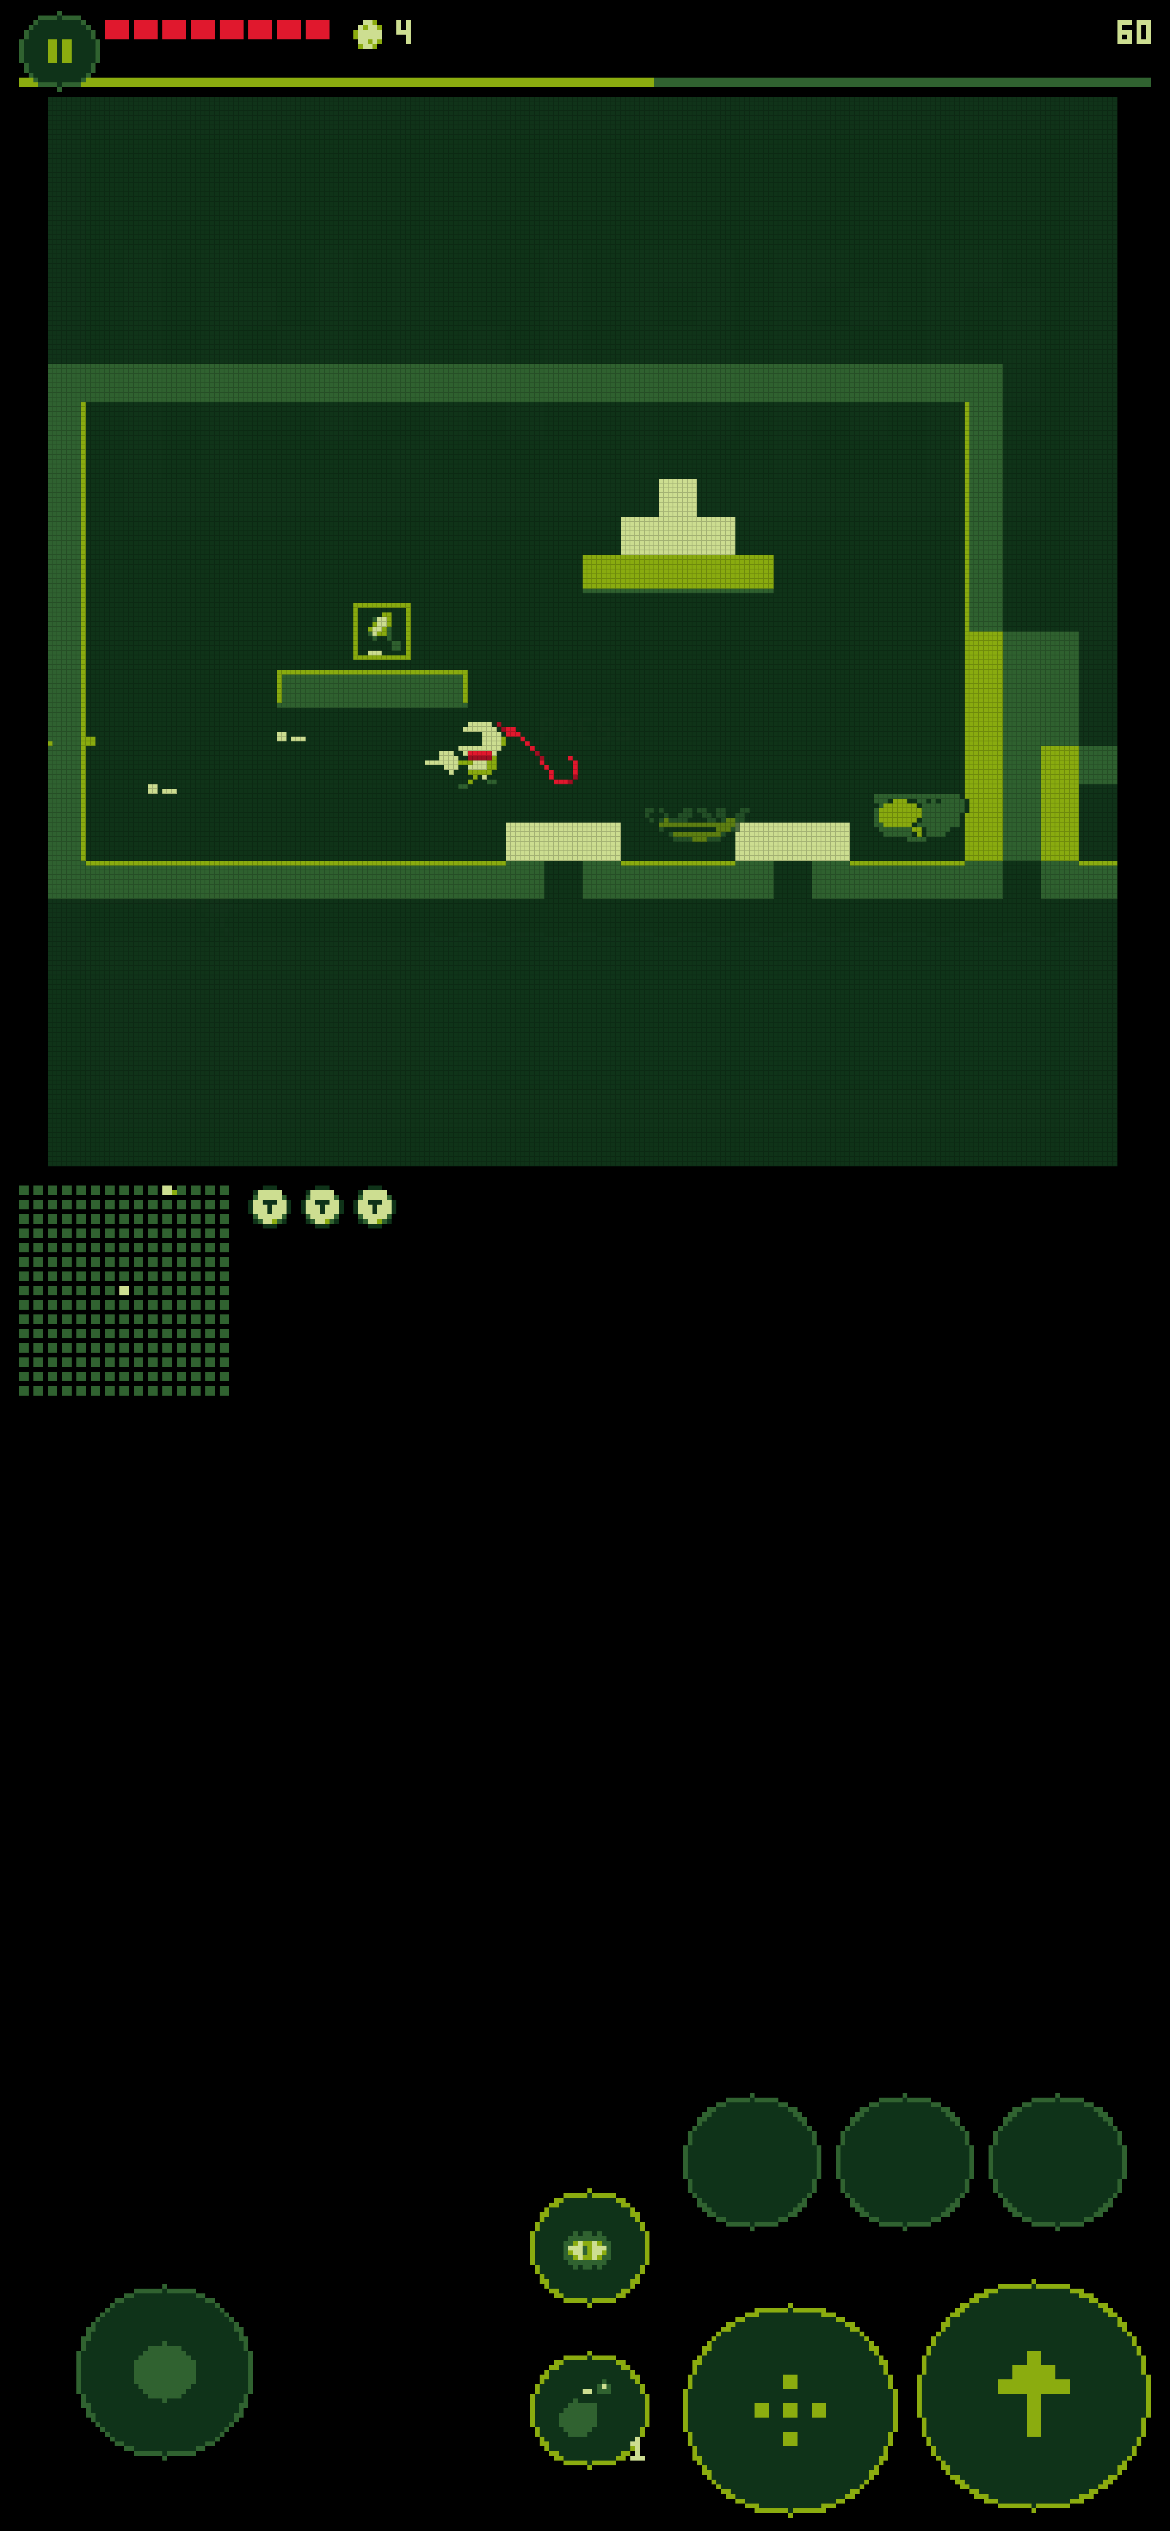
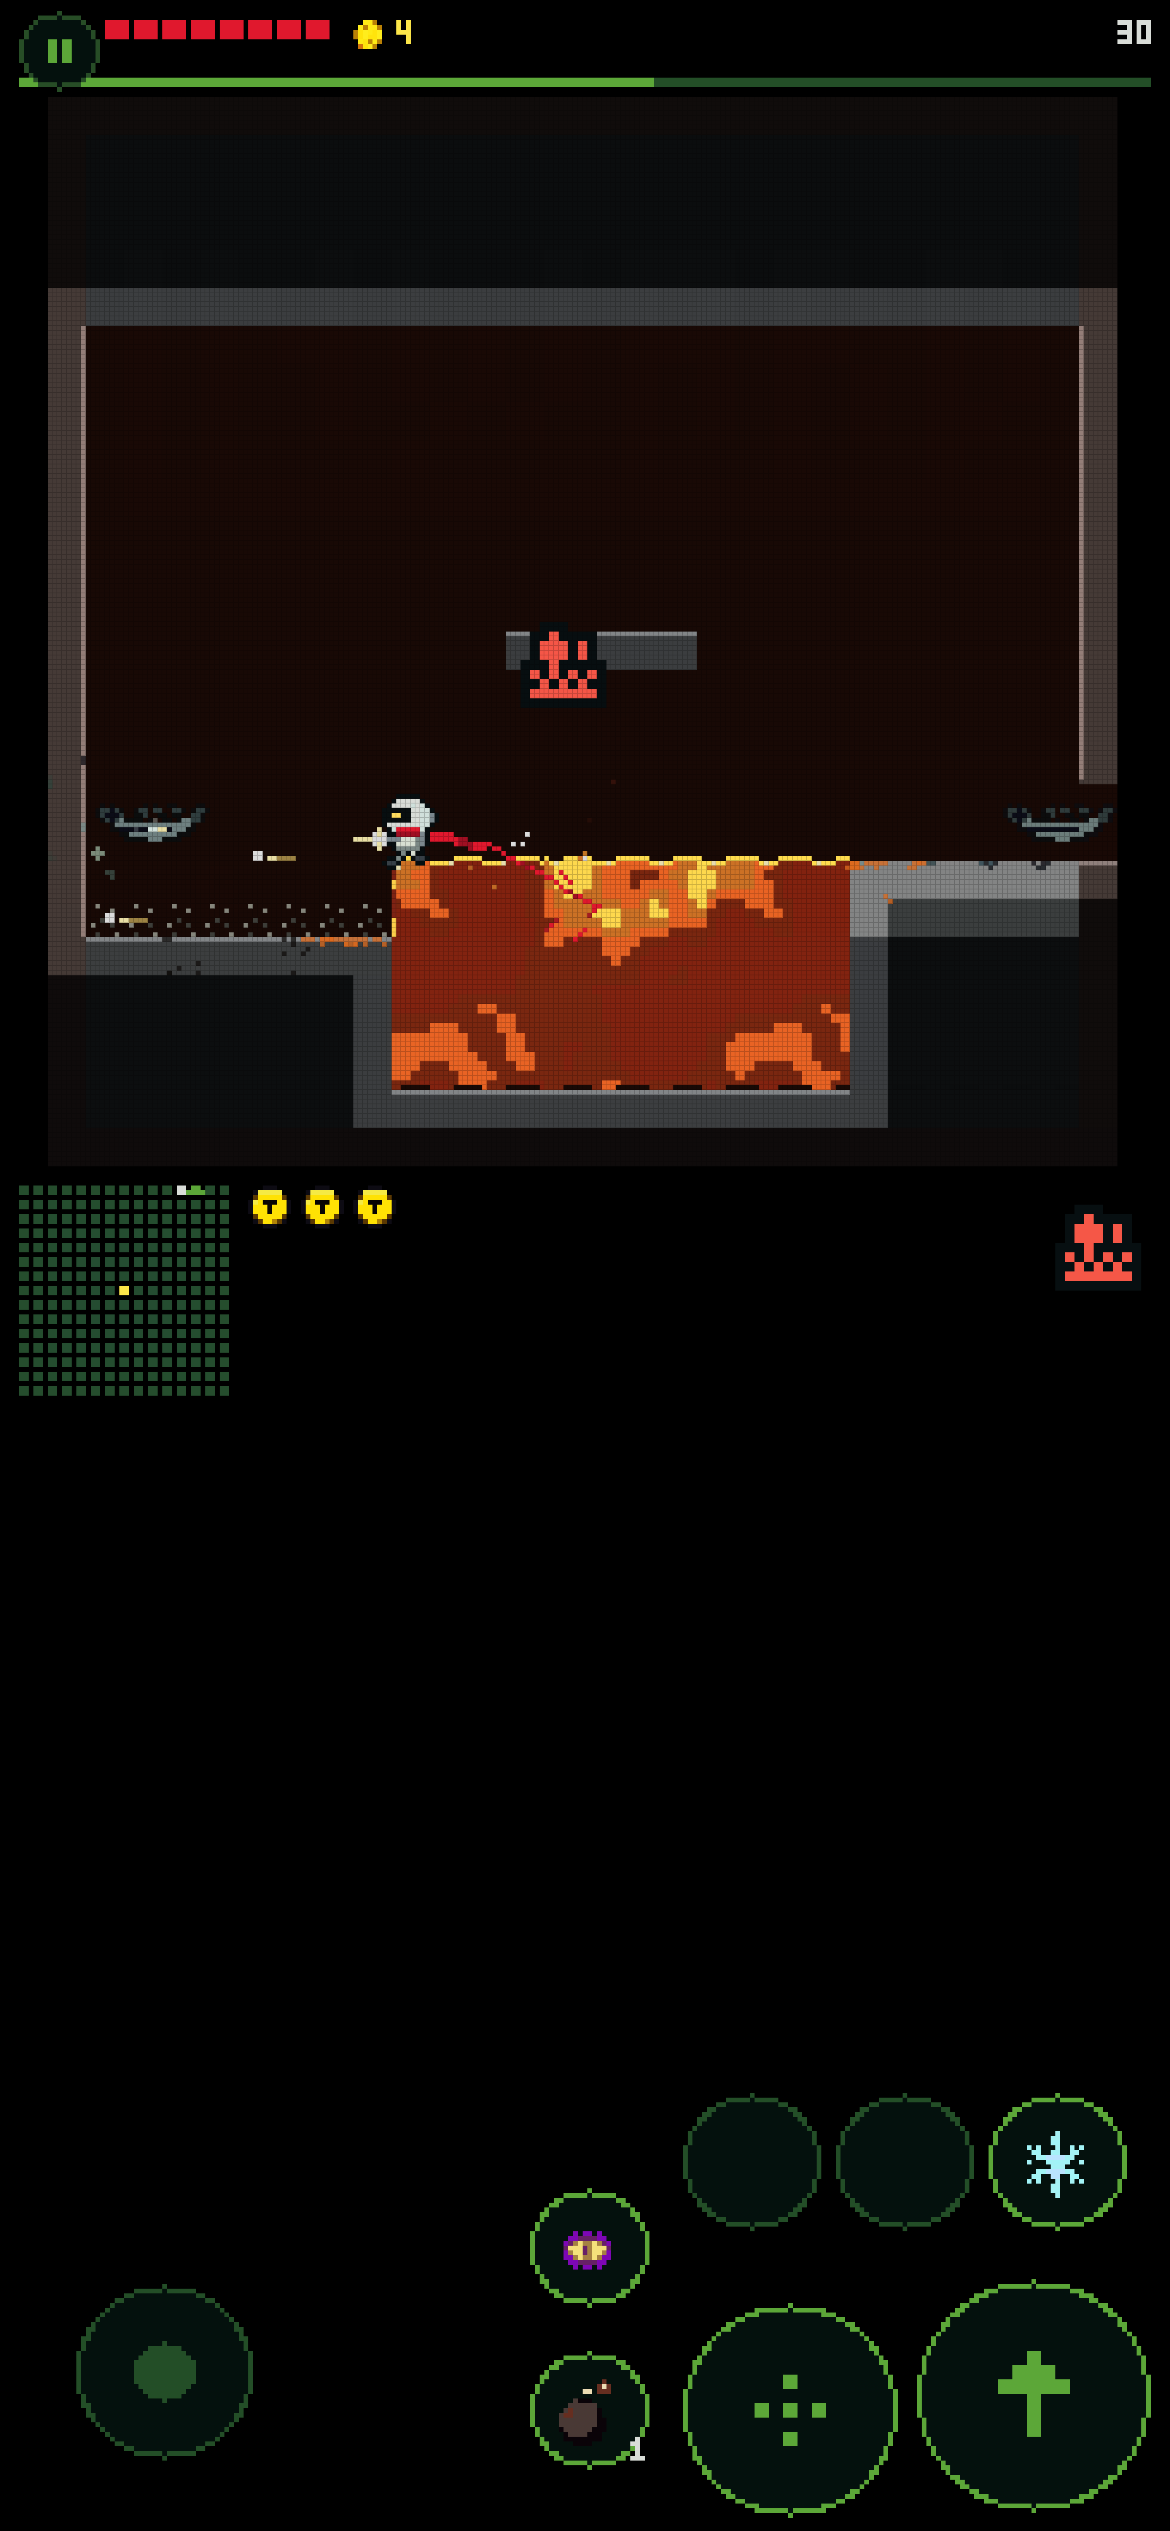
Fire and charge sit on thin liquid films
Burning liquid draws flames standing on the liquid's surface instead of
a full-cell orange block, and a burning drop falls as a small flame.
The charge flash and arcs stay inside a thin film. Film heights live in
one place, shared by the shader and the canvas.

diff --git a/src/scene.js b/src/scene.js
@@ -9,6 +9,7 @@ import { drawSkillMatter } from './skillart.js'
 import { standingFixtures } from './light.js'
 import { airOf } from './backdrop.js'
 import { SCARF_DEEP, SCARF_RED } from './hero.js'
+import { FILM } from './cells.js'
 
 const GREEN = '#76d648'
 const WHITE = '#f4f8f2'
@@ -271,9 +272,9 @@ const drawVines = (ctx, world) => {
   for (let y = 0; y < ROOM; y++) for (let x = 0; x < ROOM; x++) if (matAt(world, x, y) === M.VINE) drawVine(ctx, x, y)
 }
 
-const drawArc = (ctx, x, y) => {
+const drawArc = (ctx, x, y, top = 0) => {
   let px = x * BLOCK + Math.floor(Math.random() * BLOCK)
-  let py = y * BLOCK + Math.floor(Math.random() * BLOCK)
+  let py = y * BLOCK + top + Math.floor(Math.random() * (BLOCK - top))
   const steps = 3 + Math.floor(Math.random() * 3)
   const dx = Math.random() < 0.5 ? 1 : -1
   ctx.fillStyle = YELLOW
@@ -286,7 +287,29 @@ const drawArc = (ctx, x, y) => {
   ctx.fillRect(px, py, 1, 1)
 }
 
+const filmTop = (world, x, y) => {
+  const m = matAt(world, x, y)
+  const below = matAt(world, x, y + 1)
+  const thin = FILM[m] && matAt(world, x, y - 1) !== m && below !== m && below !== M.EMPTY && !props(below).gas
+  return thin ? BLOCK - FILM[m] : 0
+}
+
+const drawBurningLiquid = (ctx, world, x, y, time, m) => {
+  if (matAt(world, x, y - 1) === m) return
+  const h = hash(x, y)
+  const frame = (Math.floor(time * 9) + h) % SPRITES.flames.length
+  const below = matAt(world, x, y + 1)
+  if (below === M.EMPTY || props(below).gas) {
+    ctx.drawImage(SPRITES.flames[frame], x * BLOCK + 1, y * BLOCK + 1, BLOCK - 2, BLOCK - 2)
+    return
+  }
+  const top = y * BLOCK + filmTop(world, x, y)
+  const height = 4 + (Math.floor(time * 13 + h * 3) % 3)
+  ctx.drawImage(SPRITES.flames[frame], x * BLOCK, top - height, BLOCK, height + 2)
+}
+
 const drawBurning = (ctx, world, x, y, time) => {
+  if (FILM[matAt(world, x, y)]) return drawBurningLiquid(ctx, world, x, y, time, matAt(world, x, y))
   const h = hash(x, y)
   const pulse = Math.floor(time * 11 + h) % 3
   ctx.fillStyle = ['rgba(255, 96, 24, 0.62)', 'rgba(255, 170, 40, 0.5)', 'rgba(200, 40, 16, 0.6)'][pulse]
@@ -320,10 +343,11 @@ const drawOverlays = (ctx, world, time) => {
       if (m === M.VOLATILE || m === M.ICE || m === M.GLASS) drawGlint(ctx, x, y, time, m)
       if (burningAt(world, x, y)) drawBurning(ctx, world, x, y, time)
       if (chargedAt(world, x, y)) {
-        if (!busy || hash(x, y) % 3 === 0) drawArc(ctx, x, y)
+        if (!busy || hash(x, y) % 3 === 0) drawArc(ctx, x, y, filmTop(world, x, y))
         if (Math.random() < 0.35) {
+          const top = filmTop(world, x, y)
           ctx.fillStyle = 'rgba(255, 232, 74, 0.28)'
-          ctx.fillRect(x * BLOCK, y * BLOCK, BLOCK, BLOCK)
+          ctx.fillRect(x * BLOCK, y * BLOCK + top, BLOCK, BLOCK - top)
         }
       }
     }

diff --git a/src/cells.js b/src/cells.js
@@ -9,7 +9,9 @@ const FLOW_STEP = 4
 const GAS_SCALE = { [M.SMOKE]: 0.5, [M.STEAM]: 0.7, [M.METHANE]: 0.05 }
 const GAS_CHANNEL = { [M.SMOKE]: 0, [M.STEAM]: 1, [M.METHANE]: 2 }
 
-export const CELL_SHADER = { liquidStep: LIQUID_STEP, surfaceStep: SURFACE_STEP, flowStep: FLOW_STEP, size: ROOM }
+export const FILM = { [M.WATER]: 4, [M.LAVA]: 6, [M.OIL]: 5, [M.ACID]: 4 }
+
+export const CELL_SHADER = { liquidStep: LIQUID_STEP, surfaceStep: SURFACE_STEP, flowStep: FLOW_STEP, size: ROOM, film: [M.WATER, M.LAVA, M.OIL, M.ACID].map(m => FILM[m].toFixed(1)) }
 
 const emptyLayer = () => ({ bytes: new Uint8Array(AREA * 4), scratch: new Uint8Array(AREA * 4), changed: true })
 

diff --git a/src/shaders.js b/src/shaders.js
@@ -588,7 +588,7 @@ float corner(vec2 l, vec2 c, float kind, float side) {
   return r - length(vec2(x, r - l.y));
 }
 
-float sheetOf(float kind) { return kind < 1.5 ? 4.0 : kind < 2.5 ? 6.0 : kind < 3.5 ? 5.0 : 4.0; }
+float sheetOf(float kind) { return kind < 1.5 ? ${CELL_SHADER.film[0]} : kind < 2.5 ? ${CELL_SHADER.film[1]} : kind < 3.5 ? ${CELL_SHADER.film[2]} : ${CELL_SHADER.film[3]}; }
 float lipOf(float kind) { return kind < 1.5 ? 8.0 : kind < 2.5 ? 3.0 : kind < 3.5 ? 4.5 : 6.0; }
 
 bool deepAt(vec2 c, float kind) {
